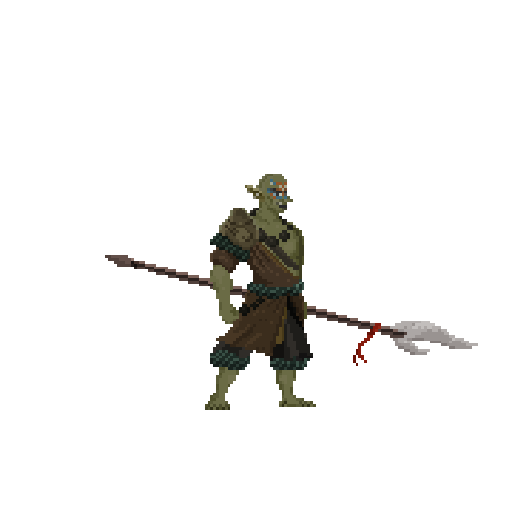
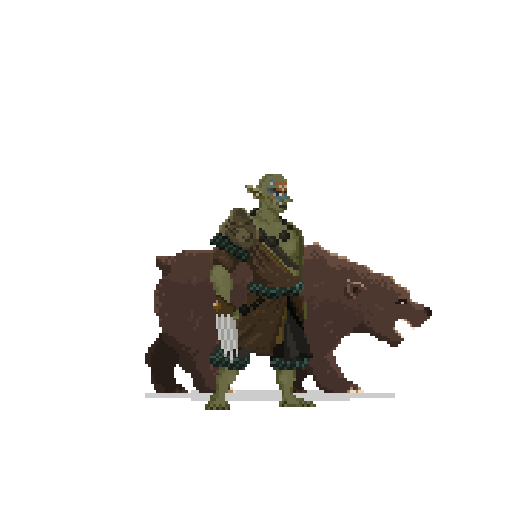
added pet bear to troll

Changed region(s): [[0.1875, 0.4688, 0.9375, 0.7812], [0.5, 0.6875, 0.5312, 0.7188]]

diff --git a/assets/css/style.css b/assets/css/style.css
@@ -287,8 +287,8 @@ hr {
 #gameScreenGrid img {
     position: absolute;
     align-self: flex-end;
-    width: 300%;
-    bottom: -50%;
+    width: 250%;
+    bottom: -60%;
     height: auto;
 }
 
@@ -340,6 +340,7 @@ hr {
     text-align: center;
     align-self: flex-start;
     color: white;
+    background-color: black;
 }
 
 .fade-out-image {
